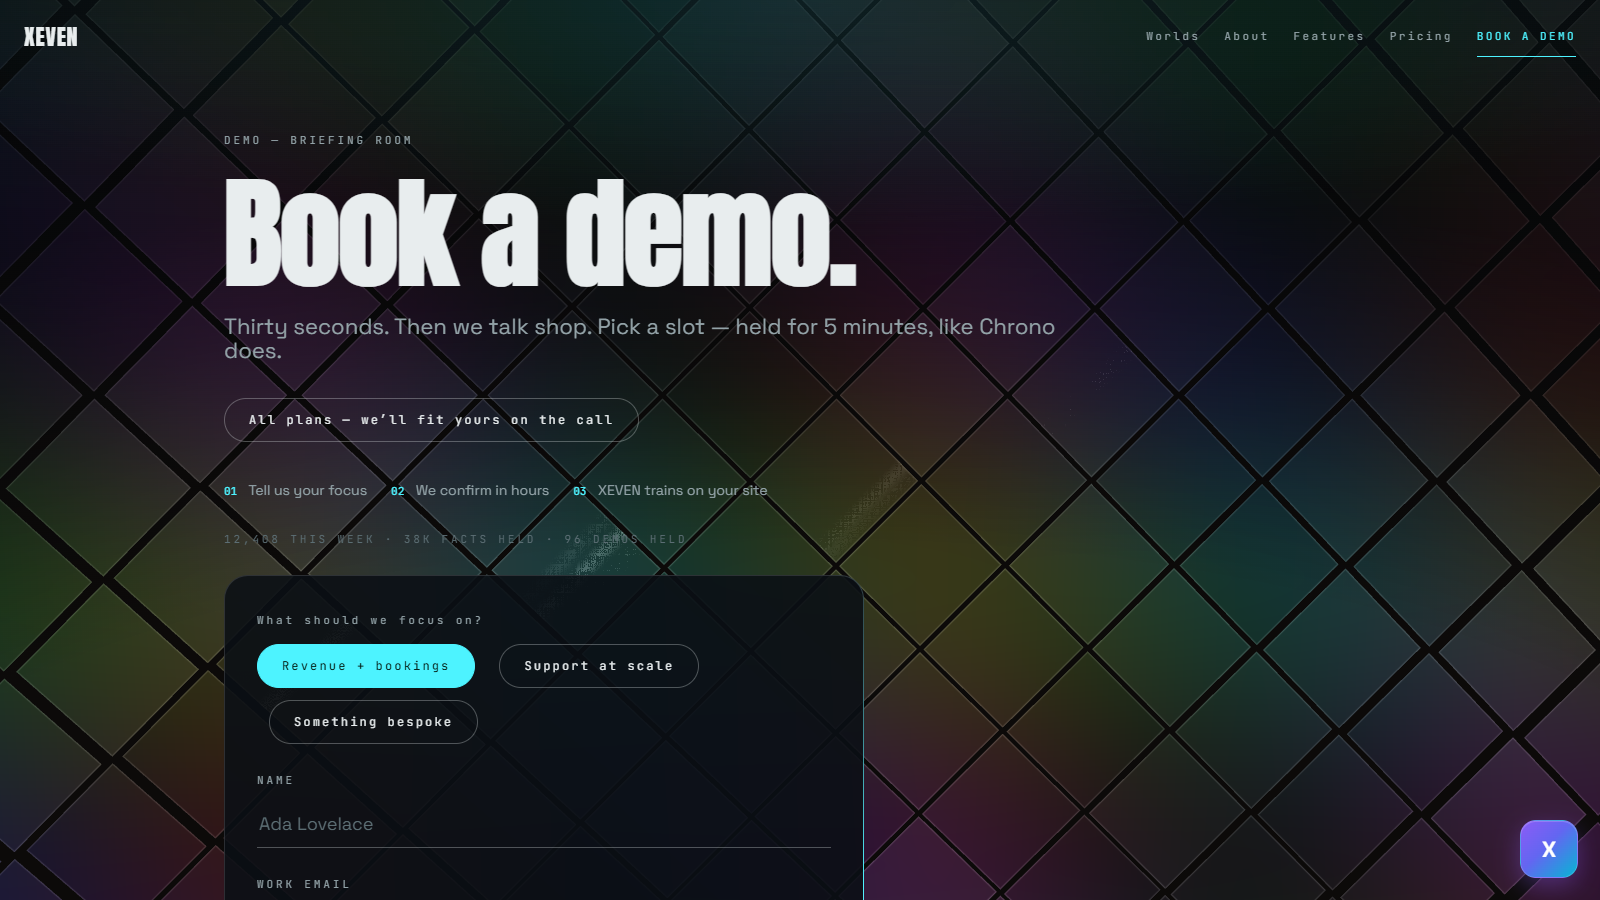
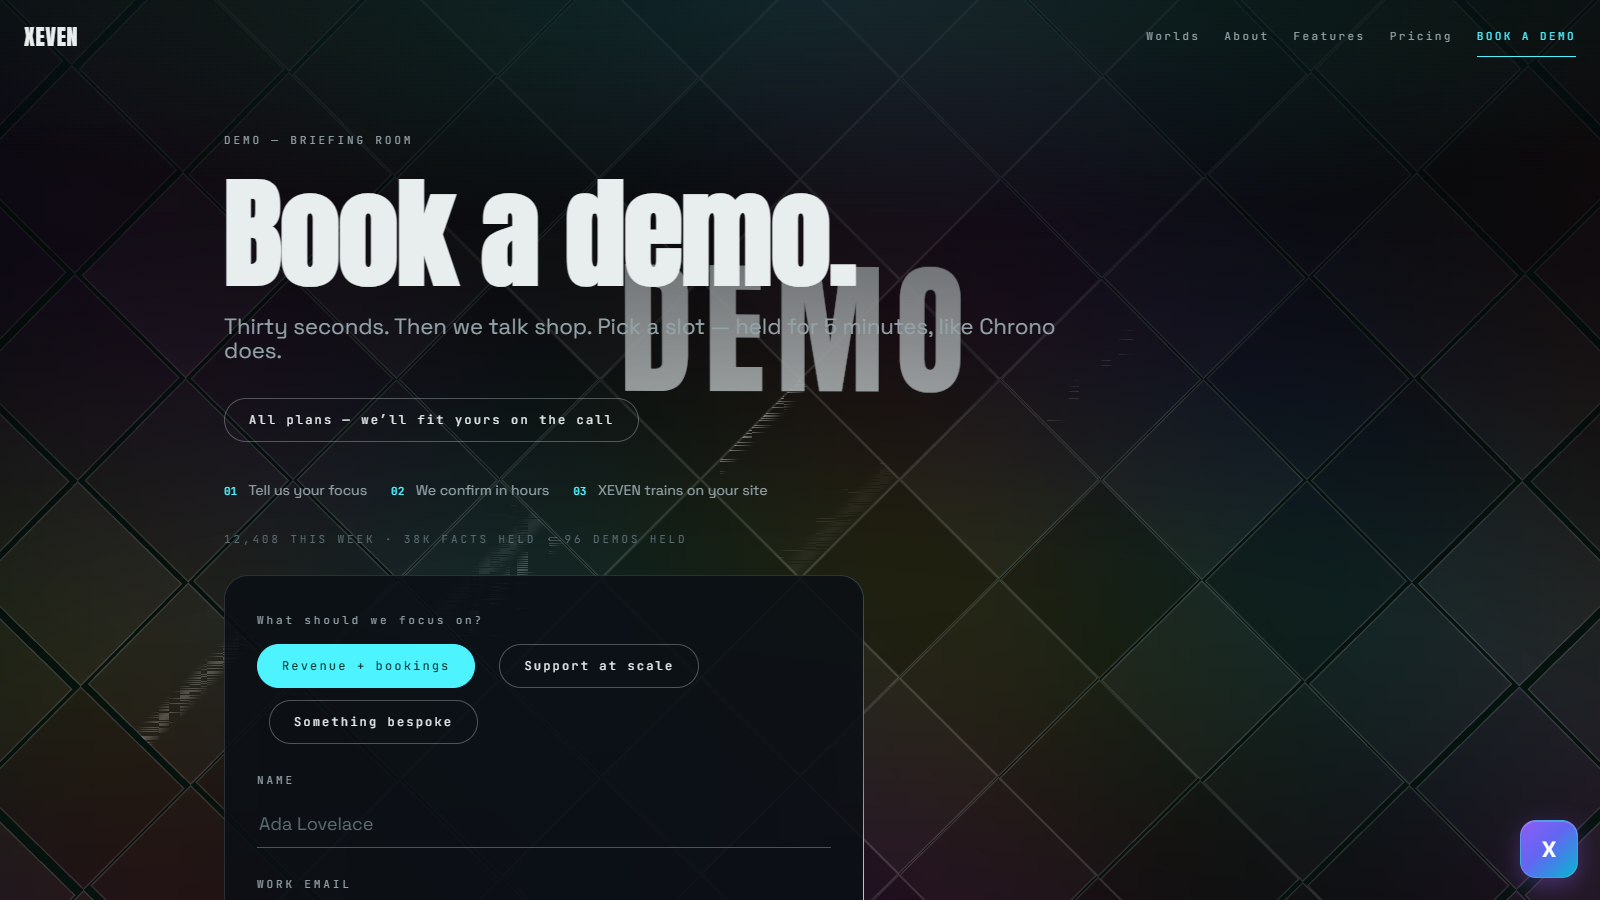
Living field labels, frozen routes, pink active nav

diff --git a/src/components/ShiftWorld.tsx b/src/components/ShiftWorld.tsx
@@ -3,20 +3,28 @@ import * as THREE from 'three'
 import { xs } from '../app/store'
 import type { Route } from '../app/store'
 
-/* SHIFTWORLD III — the diamond field, and only the field. Instanced diamond
- * panels with in-shader hairlines, breathing shimmer, RGB channel tint,
- * fingertip air, liquid press, roaming cinema. No rails, no packets, no
- * beacons, no stars, no solids, no blobs. Pointer steers parallax + stir on
- * desktop; touch-drag steers and tap presses on cursorless devices.
- * Per-route haze retint + waypoint camera kept. Discipline kept: DPR caps,
- * 6s idle sleep, hidden-tab pause, single-frame reduced stand-down, full
- * dispose, context-loss handling. */
+/* SHIFTWORLD IV — diamond mosaic + living labels. One attached tile field
+ * (edge-to-edge diamonds, RGB tint, shimmer, cinema, fingertip air) that
+ * moves ONLY on index; every other route gets a single frozen frame. Each
+ * page's designation floats inside the field itself as a canvas-texture
+ * wordmark (XEVEN / WORLDS / ABOUT / …), bobbing gently while live.
+ * Touch-drag steers + stirs, tap presses. Discipline kept: DPR caps, idle
+ * sleep, hidden-tab pause, single-frame reduced stand-down, full dispose. */
 
 const VOID = new THREE.Color(0x06090f)
 const HALF = 14
 const GAP = 0.5
 const BOW = 2.2
 const IDLE_MS = 6000
+
+const LABELS: Record<Route, string> = {
+  enter: 'XEVEN',
+  worlds: 'WORLDS',
+  about: 'ABOUT',
+  features: 'FEATURES',
+  pricing: 'PRICING',
+  demo: 'DEMO',
+}
 
 const TINTS: Record<Route, { fog: number }> = {
   enter: { fog: 0x06090f },
@@ -68,7 +76,7 @@ export default function ShiftWorld() {
     key.position.set(4, 7, 5)
     scene.add(key)
 
-    // ---- instanced diamond panels: all life in-shader ----
+    // ---- attached diamond mosaic: edge-to-edge tiles, one draw ----
     const QUAD = GAP * 3.2
     const CELLS = Math.floor((2 * HALF) / QUAD)
     const NQ = CELLS * CELLS
@@ -137,18 +145,15 @@ export default function ShiftWorld() {
         float hash(float n) { return fract(sin(n) * 43758.5453); }
         void main() {
           vec3 col = vec3(0.008, 0.009, 0.012);
-          // hairline borders: definition only, never glow
           vec2 e = fwidth(vUv);
           vec2 b = min(vUv, 1.0 - vUv);
           float bl = max(
             1.0 - smoothstep(0.0, e.x * 1.5 + 1e-4, b.x),
             1.0 - smoothstep(0.0, e.y * 1.5 + 1e-4, b.y));
           col += vec3(1.0) * bl * 0.16;
-          // breathing shimmer, scroll-kindled
           float wave = 0.03 + 0.04 * (0.5 + 0.5 * sin(uTime * 1.5 - (vWorld.x * 0.14 + vWorld.y * 0.05) + vSeed * 6.28));
           float glow = wave * (1.0 + uVel * 0.3);
           col += vec3(1.0) * glow * uShowcase;
-          // fingertip air: pointer/touch presence bends the medium
           float wspd = min(1.0, length(uWakeVel) * 0.35);
           vec2 flow = vec2(0.0);
           for (int i = 0; i < 5; i++) {
@@ -161,14 +166,6 @@ export default function ShiftWorld() {
             flow += (swirl * 0.35 + ldir * (ripple - 0.5) * 0.3) * lfall;
           }
           flow *= wspd;
-          float air = 0.0;
-          vec2 wpos = vWorld.xy + flow * 0.5;
-          for (int i = 0; i < 5; i++) {
-            vec2 adp = wpos - uTrail[i].xy;
-            air += exp(-dot(adp, adp) / 1.3) * uTrail[i].z;
-          }
-          float breathe = 0.85 + 0.15 * sin(uTime * 6.0 + vWorld.x * 8.0 + vWorld.y * 6.0);
-          // RGB channel-dominant tint, slow drift
           float tt = uTime * uDrift;
           vec2 gpos = vWorld.xy * 0.35 + flow;
           vec3 theme = vec3(
@@ -178,8 +175,6 @@ export default function ShiftWorld() {
           theme = mix(vec3(0.35), theme, 0.55);
           // press/flow warp the tint only — no light is ever added here
           col += theme * uThemeAmt * 0.6 * uShowcase;
-          col += theme * uThemeAmt * (0.6 + air * 1.6) * uShowcase;
-          // roaming cinema: sparse panels on a 7s clock
           float slot = floor(uTime / 7.0);
           float lp = fract(uTime / 7.0);
           float gate = mod(vQI * 7.0 + vQJ * 13.0 + slot * 5.0, 89.0);
@@ -203,7 +198,6 @@ export default function ShiftWorld() {
             }
             col += vec3(1.0) * cine * a * uShowcase;
           }
-          // manual haze fade (matches scene fog)
           float depth = length(vWorld - cameraPosition);
           float f = exp(-pow(depth * 0.03, 2.0));
           col = mix(uVoid, col, f);
@@ -225,13 +219,58 @@ export default function ShiftWorld() {
           const wx = uc * c - vc * c
           const wy = uc * c + vc * c
           dummy.position.set(wx, wy - 1.6, bowed(wx, 0) - 0.02)
-          dummy.scale.set(QUAD - 0.06, QUAD - 0.06, 1)
+          dummy.scale.set(QUAD, QUAD, 1)
           dummy.rotation.set(0, 0, Math.PI / 4)
           dummy.updateMatrix()
           quads.setMatrixAt(i, dummy.matrix)
         }
       }
       quads.instanceMatrix.needsUpdate = true
+    }
+
+    // ---- living wordmark: each page's designation floats in the field ----
+    const labelCanvas = document.createElement('canvas')
+    labelCanvas.width = 1024
+    labelCanvas.height = 256
+    const labelTex = new THREE.CanvasTexture(labelCanvas)
+    labelTex.colorSpace = THREE.SRGBColorSpace
+    const labelMat = new THREE.MeshBasicMaterial({
+      map: labelTex,
+      transparent: true,
+      opacity: 0.9,
+      depthWrite: false,
+    })
+    const label = new THREE.Mesh(new THREE.PlaneGeometry(11, 2.75), labelMat)
+    label.position.set(0, 1.6, -2)
+    scene.add(label)
+    // subpages: label sinks low and dims so DOM headlines stay clean
+    let labelY = 1.6
+    const poseLabel = () => {
+      const hero = xs.route === 'enter'
+      labelY = hero ? 1.6 : 0.4
+      labelMat.opacity = hero ? 0.9 : 0.32
+      label.position.y = labelY
+    }
+    poseLabel()
+    const drawLabel = () => {
+      const ctx = labelCanvas.getContext('2d')
+      if (!ctx) return
+      ctx.clearRect(0, 0, 1024, 256)
+      ctx.fillStyle = '#e8edee'
+      ctx.font = '400 150px Anton, "Arial Narrow", sans-serif'
+      ctx.textAlign = 'center'
+      ctx.textBaseline = 'middle'
+      try {
+        ;(ctx as unknown as { letterSpacing: string }).letterSpacing = '12px'
+      } catch {
+        /* older canvas: tracking unsupported, word still draws */
+      }
+      ctx.fillText(LABELS[xs.route], 512, 134)
+      labelTex.needsUpdate = true
+    }
+    drawLabel()
+    if (document.fonts) {
+      void document.fonts.ready.then(() => drawLabel())
     }
 
     // ---- presence feed: pointer AND touch drive the same uniforms ----
@@ -267,11 +306,23 @@ export default function ShiftWorld() {
     const camTarget = new THREE.Vector3(...STOPS[xs.route])
     const pm = { x: 0, y: 0 }
     let stir = 0
+    let lastRoute = xs.route
+    let dirty = true
+
+    const applyRoute = () => {
+      fogTarget.set(TINTS[xs.route].fog)
+      camTarget.set(...STOPS[xs.route])
+      camera.position.copy(camTarget)
+      drawLabel()
+      poseLabel()
+      dirty = true
+    }
 
     const resize = () => {
       renderer.setSize(window.innerWidth, window.innerHeight, false)
       camera.aspect = window.innerWidth / window.innerHeight
       camera.updateProjectionMatrix()
+      dirty = true
     }
     resize()
     window.addEventListener('resize', resize)
@@ -301,7 +352,6 @@ export default function ShiftWorld() {
     const onGone = () => {
       bInside = false
     }
-    // touch spatial: drag steers + stirs, tap presses
     const onTouchMove = (e: TouchEvent) => {
       const t = e.touches[0]
       if (!t) return
@@ -317,6 +367,13 @@ export default function ShiftWorld() {
       stir = 1
       wake()
     }
+    const onHash = () => {
+      if (xs.route !== lastRoute) {
+        lastRoute = xs.route
+        applyRoute()
+      }
+      wake()
+    }
     window.addEventListener('pointermove', onMove, { passive: true })
     window.addEventListener('pointerdown', onDown, { passive: true })
     window.addEventListener('touchmove', onTouchMove, { passive: true })
@@ -324,6 +381,7 @@ export default function ShiftWorld() {
     window.addEventListener('pointerleave', onGone, { passive: true })
     window.addEventListener('blur', onGone)
     window.addEventListener('wheel', wake, { passive: true })
+    window.addEventListener('hashchange', onHash)
     const onVis = () => {
       last = performance.now()
     }
@@ -334,20 +392,34 @@ export default function ShiftWorld() {
     }
     const onRestored = () => {
       canvas.style.visibility = ''
-      if (reduced) renderer.render(scene, camera)
+      dirty = true
+      if (reduced) {
+        camera.lookAt(0, 0.4, -4)
+        renderer.render(scene, camera)
+        dirty = false
+      }
     }
     canvas.addEventListener('webglcontextlost', onLost, false)
     canvas.addEventListener('webglcontextrestored', onRestored, false)
+
+    const renderStill = () => {
+      const fog = scene.fog as THREE.FogExp2
+      fog.color.copy(fogTarget)
+      renderer.setClearColor(fog.color, 1)
+      camera.position.copy(camTarget)
+      camera.lookAt(camera.position.x * 0.4, 0.4, -4)
+      label.position.y = labelY
+      renderer.render(scene, camera)
+      dirty = false
+    }
 
     const frame = (now: number) => {
       if (!alive) return
       const dt = Math.min(0.05, (now - last) / 1000)
       last = now
-      if (!document.hidden && now - lastInput < IDLE_MS) {
+      const live = xs.route === 'enter' && !reduced
+      if (live && !document.hidden && now - lastInput < IDLE_MS) {
         clockT += dt
-        const tint = TINTS[xs.route]
-        fogTarget.set(tint.fog)
-        camTarget.set(...STOPS[xs.route])
         const fog = scene.fog as THREE.FogExp2
         fog.color.lerp(fogTarget, 1 - Math.pow(0.002, dt))
         renderer.setClearColor(fog.color, 1)
@@ -356,7 +428,6 @@ export default function ShiftWorld() {
         camera.position.z += (camTarget.z - camera.position.z) * 0.06
         camera.lookAt(camera.position.x * 0.4, 0.4, -4)
 
-        // presence: unproject once, lay samples, drain
         ndc.set((btx / window.innerWidth) * 2 - 1, -(bty / window.innerHeight) * 2 + 1)
         raycaster.setFromCamera(ndc, camera)
         if (raycaster.ray.intersectPlane(plane, hit)) {
@@ -375,21 +446,35 @@ export default function ShiftWorld() {
         }
 
         stir = Math.max(0, stir - dt * 1.4)
+        // label breathes while live
+        label.position.y = labelY + Math.sin(clockT * 0.8) * 0.18
+        label.rotation.y = Math.sin(clockT * 0.4) * 0.06
         quadUniforms.uTime.value = clockT
         quadUniforms.uVel.value = Math.min(1, xs.vel * 1.5) * 0.3 + stir * 0.25
         renderer.render(scene, camera)
+        dirty = false
+      } else if (dirty && !document.hidden) {
+        renderStill()
       }
       raf = requestAnimationFrame(frame)
     }
 
     if (reduced) {
-      camera.lookAt(0, 0.4, -4)
-      renderer.render(scene, camera)
+      renderStill()
     } else {
       raf = requestAnimationFrame(frame)
     }
 
-    ;(window as unknown as { __shiftworld?: object }).__shiftworld = { quads }
+    ;(window as unknown as { __shiftworld?: object }).__shiftworld = {
+      get label() {
+        return LABELS[xs.route]
+      },
+      quads,
+      setQuads: (v: boolean) => {
+        quads.visible = v
+        dirty = true
+      },
+    }
 
     return () => {
       alive = false
@@ -402,9 +487,11 @@ export default function ShiftWorld() {
       window.removeEventListener('blur', onGone)
       window.removeEventListener('wheel', wake)
       window.removeEventListener('resize', resize)
+      window.removeEventListener('hashchange', onHash)
       document.removeEventListener('visibilitychange', onVis)
       canvas.removeEventListener('webglcontextlost', onLost, false)
       canvas.removeEventListener('webglcontextrestored', onRestored, false)
+      labelTex.dispose()
       scene.traverse((o) => {
         const mesh = o as THREE.Mesh
         if (mesh.geometry) mesh.geometry.dispose()

diff --git a/src/chrome.css b/src/chrome.css
@@ -74,7 +74,7 @@ canvas.world-fixed {
 }
 
 .tb-nav a:hover { color: var(--bone); }
-.tb-nav a.active { color: var(--bone); border-bottom-color: var(--glow); }
+.tb-nav a.active { color: var(--candy); border-bottom-color: var(--candy); }
 
 .tb-right { display: flex; align-items: center; gap: var(--s24); }
 
@@ -140,7 +140,7 @@ canvas.world-fixed {
 .mnav.open a:nth-child(5) { transition-delay: 240ms; }
 .mnav.open a:nth-child(6) { transition-delay: 300ms; }
 .mnav.open a:nth-child(7) { transition-delay: 360ms; }
-.mnav a.active { color: var(--glow); }
+.mnav a.active { color: var(--candy); }
 
 /* ---------- ruler rail: survey instrument, left edge ---------- */
 .ruler {
@@ -614,7 +614,6 @@ canvas.world-fixed {
   .ruler { display: none; }
   .page { padding: var(--s64) var(--s16) calc(var(--s96) + 60px); }
   .st-hero { padding-bottom: var(--s32); min-height: 100svh; }
-  .hero-mark { font-size: clamp(56px, 22vw, 120px); }
   .tease-grid { grid-template-columns: 1fr; }
   .tier-grid { grid-template-columns: 1fr; }
   .pg { grid-template-columns: 1fr; }
@@ -662,25 +661,6 @@ canvas.world-fixed {
   border-radius: 50%;
 }
 
-/* ---------- floating hero mark ---------- */
-.hero-mark {
-  font-family: var(--disp);
-  font-size: clamp(64px, 14vw, 190px);
-  line-height: 0.9;
-  letter-spacing: 0.02em;
-  margin: 0;
-  background: linear-gradient(100deg, var(--bone) 20%, var(--candy) 52%, var(--glow) 80%);
-  -webkit-background-clip: text;
-  background-clip: text;
-  color: transparent;
-  animation: hero-float 7s ease-in-out infinite;
-}
-
-@keyframes hero-float {
-  0%, 100% { transform: translateY(0) rotate(-0.4deg); }
-  50% { transform: translateY(-14px) rotate(0.4deg); }
-}
-
 /* ---------- route weather: one accent moment per route ---------- */
 .weather {
   position: fixed;
@@ -721,7 +701,6 @@ canvas.world-fixed {
 
 /* ---------- reduced motion: full stand-down ---------- */
 @media (prefers-reduced-motion: reduce) {
-  .hero-mark { animation: none; }
   .intro-veil { transition: none; }
   .dust-char { opacity: 1; filter: none; transform: none; animation: none; }
   .dust-motes { display: none; }

diff --git a/src/pages/EnterStage.tsx b/src/pages/EnterStage.tsx
@@ -1,14 +1,11 @@
-/* ENTER — one mark on a living field. The hero XEVEN floats centered;
-   nav, rail, and footer are the only chrome. Everything else was cut. */
+/* ENTER — the field is the page. The XEVEN mark lives inside the WebGL
+   field itself; the DOM holds only chrome. This route is an empty viewport
+   over living diamonds. */
 
 export default function EnterStage() {
   return (
     <div className="page">
-      <section className="st-hero hero-center" id="top">
-        <p className="hero-mark" aria-label="XEVEN">
-          XEVEN
-        </p>
-      </section>
+      <section className="st-hero" id="top" aria-label="XEVEN" />
     </div>
   )
 }

diff --git a/backlog.md b/backlog.md
@@ -77,6 +77,7 @@ Scope frozen: map-only phase found zero blank routes, zero dead links, zero cons
 - [x] Orb theme (pink/cyan Living Shift): thinking-orb intro on index refresh only (jelly morph + revolve + stretch, corner-flood reveal, skippable, reduced-instant); swipe shifts replace the X veil (instant nav, no loaders off-index); right-aligned nav + logo-left; index-only section rail; sticky footer; floating gradient hero mark; playground + knot vignettes + R3F stack + XLoader deleted; full pink/cyan retoken (tokens, field, ring). Verified: build green, 1 warning, 6 routes + reduced pass, 0 errors. Frames VISUALLY VERIFIED (orb mid-stretch, revealed hero + panel field).
 - [x] Swarm orb (reference: particle-mass reel): intro rebuilt as 520-particle canvas swarm — magenta streaks, white-hot + cyan core glints, motion-trail rendering, reflection pool, inward condense into the corner-flood; field blobs de-glowed to dark occluding bodies (tint, zero emission); dead jelly CSS removed. Verified: build green, 1 warning, 0 page errors. Frames VISUALLY VERIFIED (condensing swarm + pool, revealed hero).
 - [x] Field diet + touch spatial + centered hero + replay chat: ShiftWorld stripped to diamond panels only (rails/packets/beacons/stars/solids/blobs deleted); touch-drag steers + stirs, tap presses; hero centered with floating mark, title zone below with rail stop; self-playing watch-only DemoChat with typing loop; veil dissolve slowed to 1400ms with lingering scatter. Verified: build green, 1 warning, all routes + mobile tap + reduced pass, 0 errors. Frames VISUALLY VERIFIED (chat console, mobile hero).
+- [x] Living labels + frozen routes: canvas-texture wordmarks float in the field per route (XEVEN/WORLDS/…), breathing on index, dimmed + sunk on subpages so headlines stay clean; ticker sleeps off-index (one frame on arrival/resize); diamonds tile edge-to-edge; pink active nav (demo CTA + logo exempt). Verified: build green, 1 warning, labels correct per route, 0 errors.
 - [x] Fresh-eyes pass P1–P6: hero proposition + in-fold CTA + labeled ledger + mobile safe padding; demo plan chip + 3-step strip + proof strip (published numbers only) + mail CTA; per-route weather glows + static film grain + magnetic hero CTAs + nowrap stat chips; varied reveal speeds + hero parallax + ledger wakes on bloom; pricing trial line + footer shift line. Verified: build green, 1 warning, all routes + mobile + reduced pass, 0 errors. Frames VISUALLY VERIFIED (hero, demo, worlds ember horizon).
 - [x] Index strip + field diet + touch: Gate/XLoader/DemoChat/R3FDemo deleted, App has zero loader paths; field is diamond panels only (rails/packets/beacons/stars/solids/blobs gone, cursor glow emission removed — tint warp kept); touch-drag steers + stirs, tap presses; index reduced to centered mark + chrome; rail single TOP stop. Fixed en route: hero flex-end beached the mark (centered), GLSL use-before-declare (verify caught it). Verified: build green, 1 warning, all routes + touch + reduced pass, 0 errors.
 - [x] True-sphere orb + diffuse + diamond flood + dust words: per-particle depth shading (front bright/large, back dim, rim-lit silhouette) with two-axis tumble; GATHER→DIFFUSE→BLOOM arc (radii breathe 1→0.8→1.7); flood carries an opacity-ramped diamond lattice (dedicated overlay div, not background animation); hero title materializes per-char with motes on orb-bloom event only (fixed: EnterStage mounts before intro ends, so dust listens for the event). Verified: build green, 1 warning, dust 37 chars + 14 motes live, 0 errors. Frames VISUALLY VERIFIED (sphere, diamond flood, settled hero).
